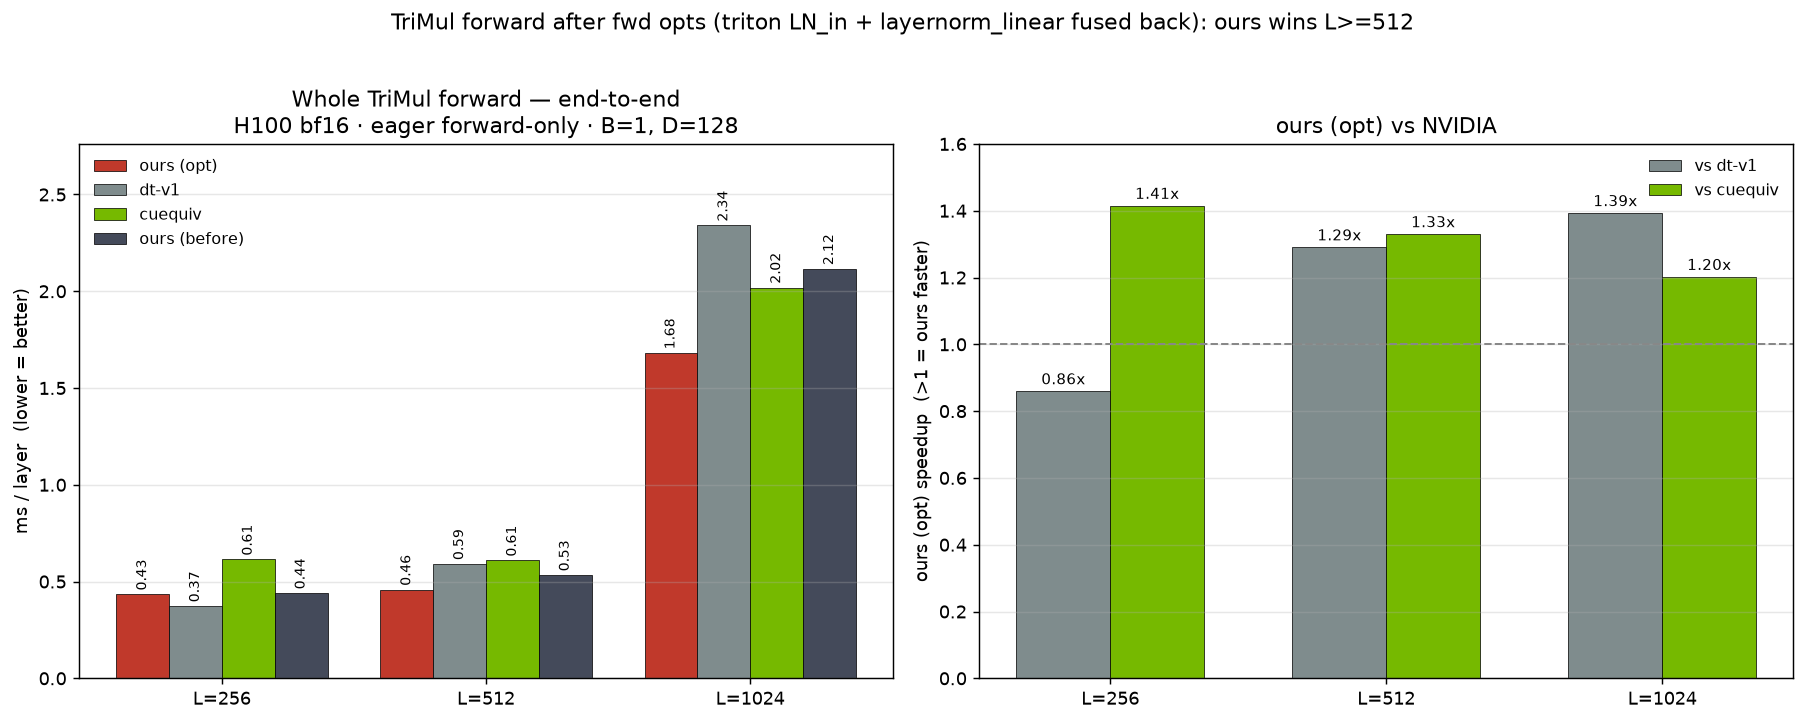
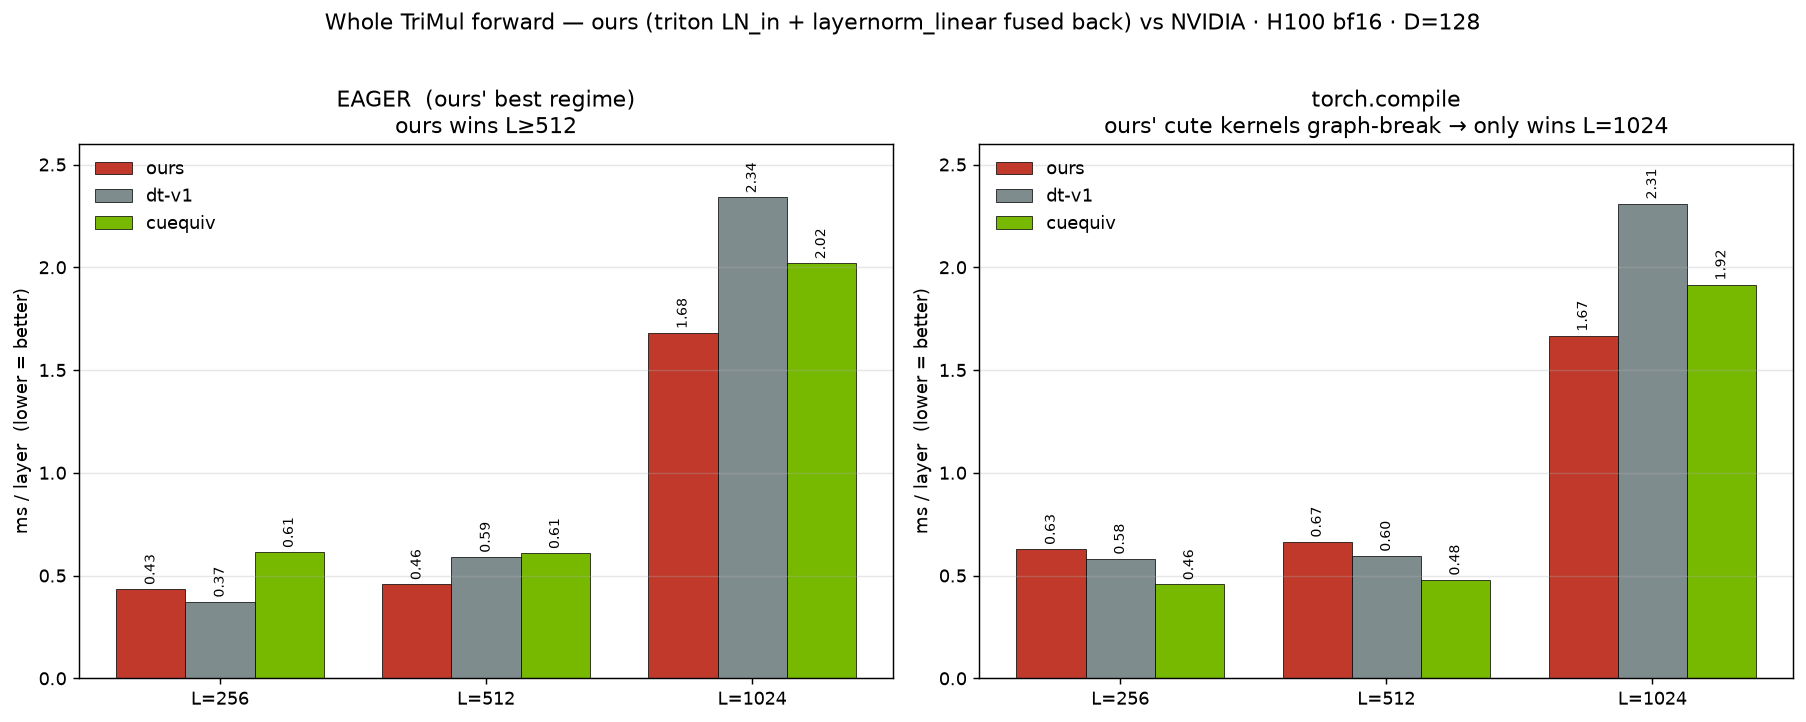
docs(trimul): forward plot eager+compile (regime matters for cute)
Whole trimul forward, ours(triton LN_in + layernorm_linear fused back) vs dt-v1 vs
cuequiv, ms/layer @256/512/1024:
  EAGER:   ours 0.434/0.458/1.680 | dt-v1 0.373/0.591/2.340 | cuequiv 0.614/0.609/2.019
  COMPILE: ours 0.629/0.665/1.667 | dt-v1 0.582/0.596/2.310 | cuequiv 0.457/0.480/1.916
ours best regime is EAGER (cute kernels graph-break under compile -> Dynamo overhead
at small/mid L). Eager: ours wins L>=512 (1.39x dt-v1, 1.20x cuequiv @1024). Compile:
ours wins only L=1024. trimul_forward_opt.png (2-panel).

diff --git a/src/miniworld_kernels/kernels/trimul_inproj/cute/whole_fwd_bench.py b/src/miniworld_kernels/kernels/trimul_inproj/cute/whole_fwd_bench.py
@@ -38,6 +38,17 @@ D = 128
 EPS = 1e-5
 
 
+@torch.compiler.disable
+def _d_inproj(xn, WLt, WLgt, WRt, WRgt, b_lr):
+    return trimul_inproj_cute_forward(xn, WLt, WLgt, WRt, WRgt, None,
+                                      bdll_direct=True, compute_gate=False, b_lr=b_lr)
+
+
+@torch.compiler.disable
+def _d_lnl(view, lw_o, lb_o, Wp_lin, gate):
+    return layernorm_linear_cute_fused(view, lw_o, lb_o, Wp_lin, None, eps=EPS, gate=gate)
+
+
 def cos(a, b):
     a, b = a.float().flatten(), b.float().flatten()
     return (a @ b / (a.norm() * b.norm() + 1e-20)).item()
@@ -95,21 +106,21 @@ def main():
 
         def ours_opt():
             xn = triton_layernorm(xf, lw_in, lb_in, EPS)
-            lft, rgt, _ = trimul_inproj_cute_forward(xn.view(1, L, L, D), WLt, WLgt, WRt, WRgt, None,
-                                                     bdll_direct=True, compute_gate=False, b_lr=b_lr)
+            lft, rgt, _ = _d_inproj(xn.view(1, L, L, D), WLt, WLgt, WRt, WRgt, b_lr)
             tri = torch.einsum("bdik,bdjk->bdij", lft, rgt)
             gate = torch.sigmoid(xn @ Wg)
-            return layernorm_linear_cute_fused(tri.reshape(D, M).t(), lw_o, lb_o, Wp_lin, None,
-                                               eps=EPS, gate=gate)
+            return _d_lnl(tri.reshape(D, M).t(), lw_o, lb_o, Wp_lin, gate)
 
         if L == 256:
             print(f"  cos(opt, old) = {cos(ours_opt(), ours_old().reshape(M, D)):.5f}", flush=True)
 
-        def b_(fn):
+        def b_(fn):  # COMPILE each path (default mode, like team-gm); ours' cute kernels are @disable'd
             try:
-                for _ in range(5):
-                    fn()
-                return triton.testing.do_bench(fn, warmup=10, rep=50, return_mode="median")
+                torch._dynamo.reset()
+                cf = torch.compile(fn)
+                for _ in range(6):
+                    cf()
+                return triton.testing.do_bench(cf, warmup=10, rep=50, return_mode="median")
             except Exception as e:  # noqa: BLE001
                 print(f"   fail {type(e).__name__}: {str(e)[:60]}", flush=True)
                 return float("nan")
